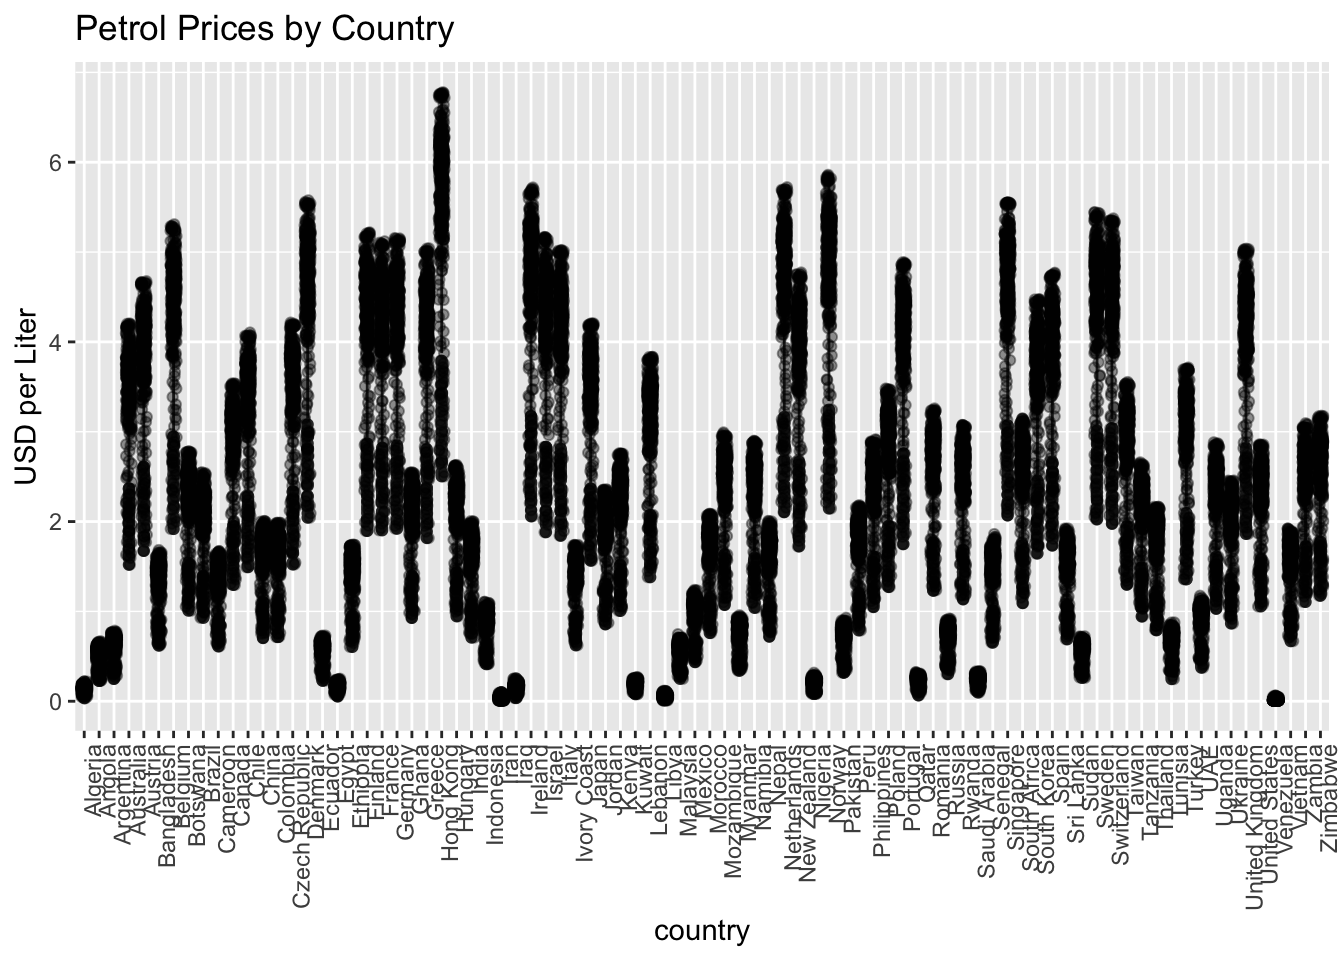
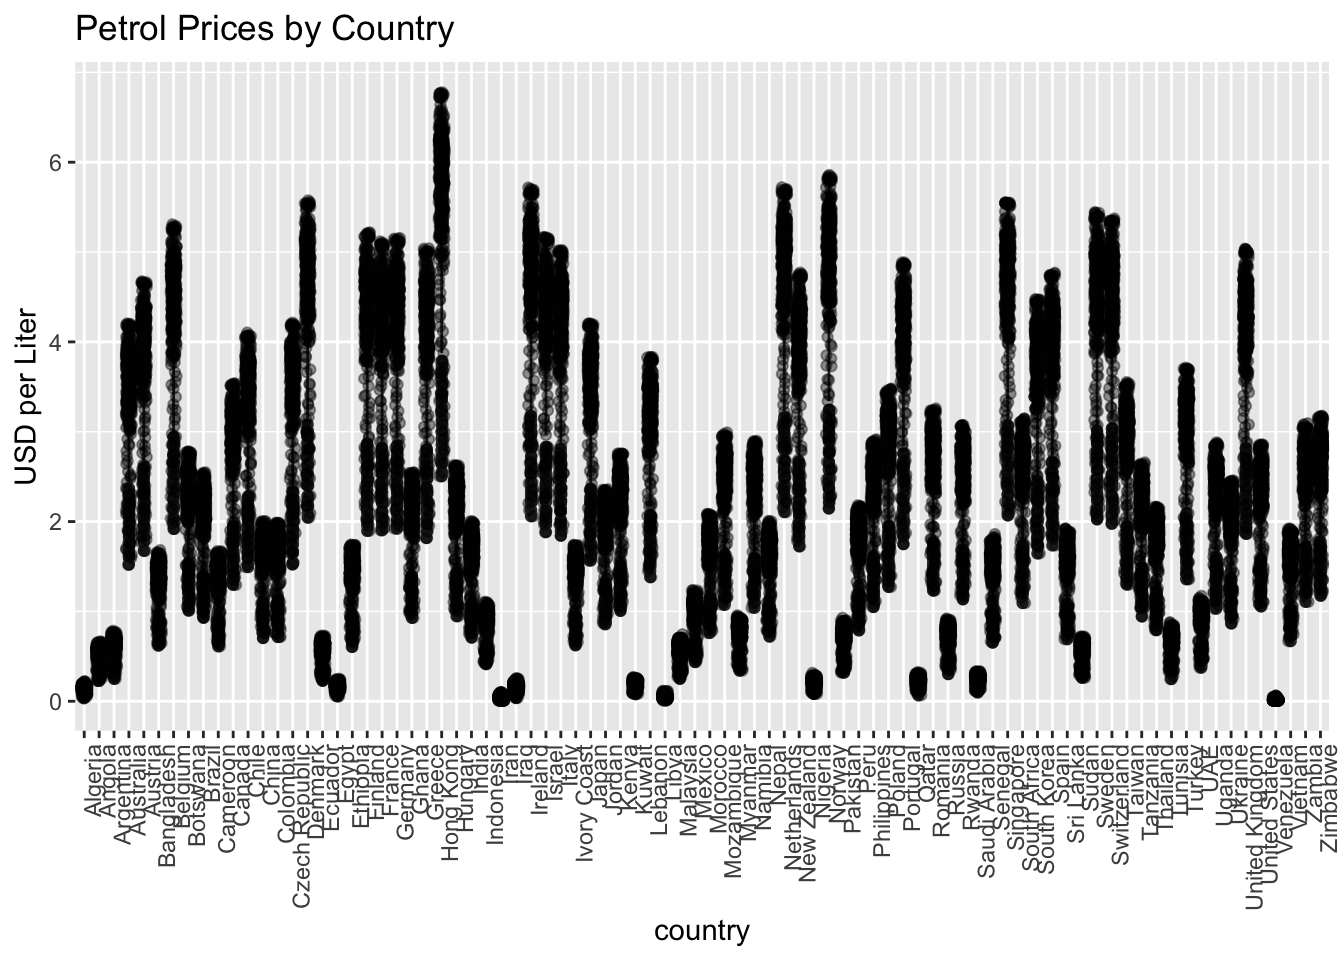
buton

diff --git a/docs/project.html b/docs/project.html
@@ -228,9 +228,10 @@ pre > code.sourceCode > span > a:first-child::before { text-decoration: underlin
 <h1>2. Data</h1>
 <p>Global Fuel Prices &amp; Economic Indicators (2020-2026)</p>
 <p>The global energy landscape has faced significant volatility between 2020 and 2026. This dataset provides a standardized, weekly record of retail fuel prices across 84 countries, aligned with global crude oil benchmarks and national fiscal indicators. It serves as a unified resource for analyzing the relationship between international commodity markets and local retail costs.</p>
+<p>We imported our dataset directly from Kaggle.com into RStudio and began the analysis. Before using the data, we inspected the columns to ensure that there were no missing values (NAs) or data quality issues. The dataset was already in a ready-to-use format, so no additional data cleaning or preprocessing was required.</p>
 <section id="data-source" class="level2">
 <h2 class="anchored" data-anchor-id="data-source">2.1 Data Source</h2>
-<p>https://www.kaggle.com/datasets/belbino/global-fuel-prices-20202026/data</p>
+<p><a href="https://www.kaggle.com/datasets/belbino/global-fuel-prices-20202026/data" class="btn btn-dark">Click for Data</a></p>
 </section>
 <section id="general-information-about-data" class="level2">
 <h2 class="anchored" data-anchor-id="general-information-about-data">2.2 General Information About Data</h2>
@@ -242,7 +243,9 @@ pre > code.sourceCode > span > a:first-child::before { text-decoration: underlin
 </section>
 <section id="reason-of-choice" class="level2">
 <h2 class="anchored" data-anchor-id="reason-of-choice">2.3 Reason of Choice</h2>
-<p>This dataset was chosen because fuel prices are highly sensitive to global geopolitical events, particularly wars and conflicts. Recent events such as the Israel–Iran war have caused significant volatility in oil supply and Brent crude prices, leading to fluctuations in petrol, diesel, and LPG prices worldwide. Therefore, the dataset is suitable for analyzing how geopolitical instability affects fuel prices across countries, including Turkey.</p>
+<p>This dataset was chosen because fuel prices are highly sensitive to global geopolitical events, particularly wars and conflicts. Recent events such as the ABD–Iran war have caused significant volatility in oil supply and Brent crude prices, leading to fluctuations in petrol, diesel, and LPG prices worldwide. Therefore, the dataset is suitable for analyzing how geopolitical instability affects fuel prices across countries, including Turkey.</p>
+<p>This study also compares the impact of major geopolitical events, specifically the Russia–Ukraine conflict in February 2022 and the United States–Iran conflict in March 2026, on fuel prices across different countries. The analysis focuses on differences in price sensitivity between countries, with a particular emphasis on Turkey. The aim is to assess how strongly fuel prices in Turkey are affected compared to other countries such as the United States during these periods.</p>
+<p>Additionally, we aim to analyze the trend of fuel prices in Turkey between 2020 and 2026, examining how prices responded to the specified geopolitical events and assessing the nature of these responses over time.</p>
 </section>
 <section id="preprocessing" class="level2">
 <h2 class="anchored" data-anchor-id="preprocessing">2.4 Preprocessing</h2>
